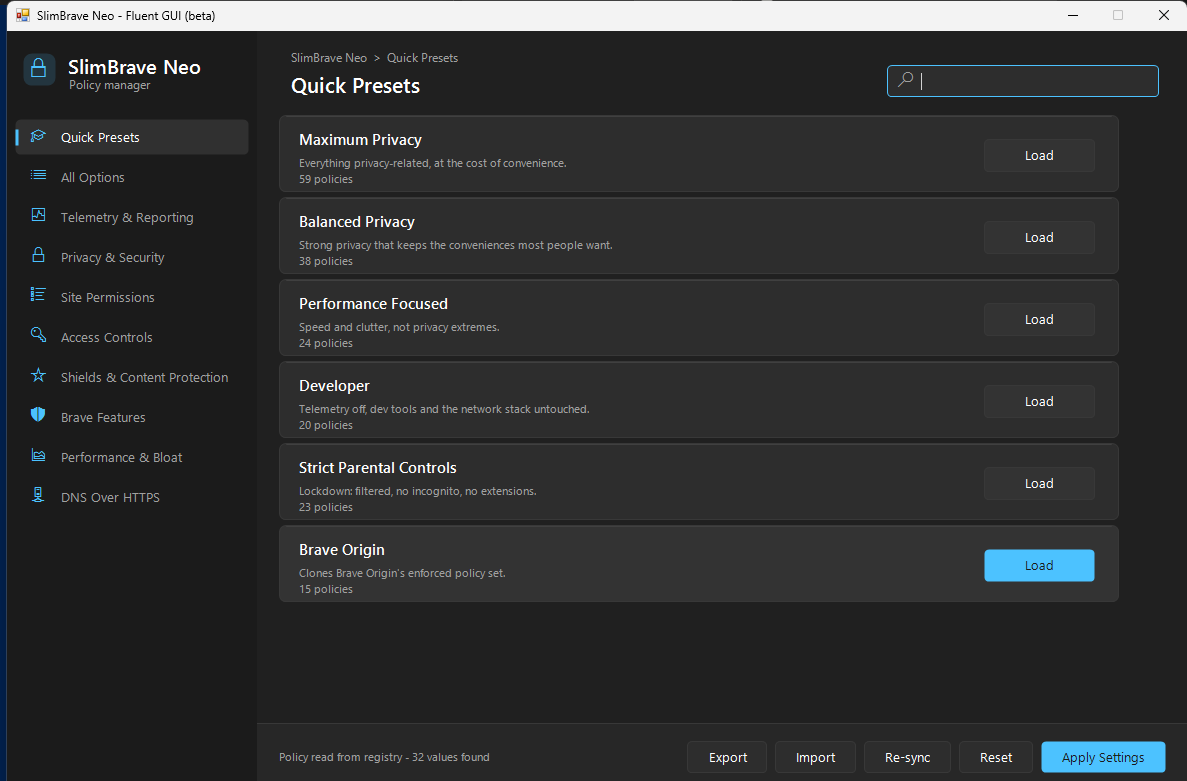
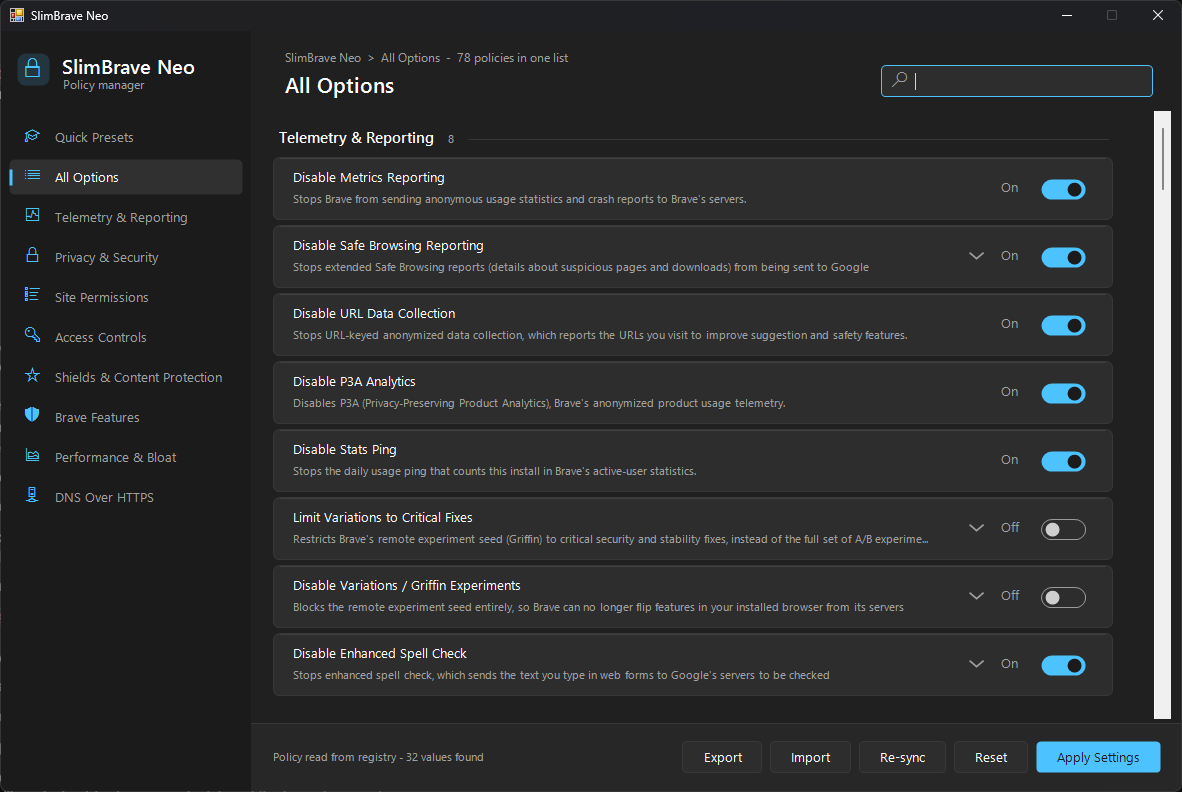
Release candidate: fix the import blocker, collapse groups, true up the docs
A four-lens independent read of the whole main..HEAD diff before marking PR #21
ready. One blocker, two majors and seven minors, each reproduced before it was
fixed. Also the maintainer's own screenshot of the shipping window, replacing
one that still showed the beta title and a light frame.

BLOCKER - the legacy-array import staged both rows of a shared-key pair. Six
policy keys carry two rows with opposite values (Force vs Disable Incognito,
the two Variations rows, the two Referrers rows). The "first row wins" guard
tested the row's own state, which the function had just cleared, so it never
fired: an old export naming those keys staged both rows and Apply wrote the
second - Force Incognito, blocked variation killswitches, permissive referrers.
Now keyed on a handled-keys set, and pinned by a test.

MAJOR - Import and Re-sync never collapsed mutual-exclusion groups. main did it
through CheckedChanged and the Python ports do it in _enforce_groups; the
rewrite left the rule only in the toggle handler, so a config or a registry
state could stage both Shields lists and Apply wrote both. Enforce-ExclusionGroups
now runs at the end of both.

MAJOR - the docs described main's behaviour, not this branch's. SECURITY.md
claimed the Preferences scrub touches only the invoking user (it now walks every
interactive account via ProfileList - new elevated write access that a security
document must not omit), that Reset clears list policies outright (both Reset and
[…]

diff --git a/tests/test_slimbrave.py b/tests/test_slimbrave.py
@@ -2422,7 +2422,12 @@ def test_ps1_row_mousedown_uses_zone_of_for_the_expander():
     start = text.index("function New-FluentRow")
     body = text[start:text.index("\n}\n", start)]
     md = body[body.index("Add_MouseDown"):]
-    assert "$ev.Y -le 50" not in md, "the expander is hit-tested with a bare rectangle again"
+    assert re.search(r"\$zone\s*=\s*Zone-Of \$s \$ev\.X \$ev\.Y", md), (
+        "MouseDown does not resolve the zone through Zone-Of"
+    )
+    assert not re.search(r"\$ev\.Y\s*-le\s*\(?S?\s*50", md), (
+        "the expander is hit-tested with a bare rectangle again"
+    )
     z = md.find("Zone-Of $s $ev.X $ev.Y")
     e = md.find('"exp"')
     assert 0 <= z < e, "MouseDown does not resolve the zone before testing for the expander"
@@ -2448,7 +2453,11 @@ def _gui_text():
 
 def _strip_parens(s):
     """Drop every parenthesised group, innermost first, so `(S 18)` and
-    arithmetic such as `($s.Width-1)` vanish and only bare tokens remain."""
+    arithmetic such as `($s.Width-1)` vanish and only bare tokens remain.
+
+    Known gap: a bare literal inside arithmetic, `($script:COLLAPSED+776)`,
+    vanishes with it. No constructor in the file does that today, and keeping
+    the 1 px hairline insets and the placement math exempt matters more."""
     while True:
         new = re.sub(r"\([^()]*\)", "", s)
         if new == s:
@@ -2498,7 +2507,8 @@ def test_ps1_dark_title_bar_is_actually_requested():
     so the dark UI opened under Windows' light title bar. Same class as the
     ownership guard that was defined and never used: pin the call."""
     text = (ROOT / "SlimBrave.ps1").read_text(encoding="utf-8")
-    calls = re.findall(r"::DwmSetWindowAttribute\(", text)
+    live = re.sub(r"(?m)^\s*#.*$", "", text)   # a commented-out call is not a call
+    calls = re.findall(r"::DwmSetWindowAttribute\(", live)
     assert len(calls) >= 1, "DwmSetWindowAttribute is declared but never called"
     assert "Add_HandleCreated" in text, "the dark-mode attribute must be set once the handle exists"
 
@@ -2509,10 +2519,19 @@ def test_ps1_gui_fonts_follow_the_layout_factor():
     with the grid. A point-unit font in the GUI region would outgrow its row
     on exactly the screens the clamp exists for."""
     text = (ROOT / "SlimBrave.ps1").read_text(encoding="utf-8")
+    body = text[text.index("function New-UiFont"):]
+    body = body[:body.index("\n}\n")]
     gui = text[text.index("$form = New-Object System.Windows.Forms.Form"):]
-    assert 'New-Object System.Drawing.Font "' not in gui, "a GUI font is built in points, bypassing the factor"
-    assert "function New-UiFont" in text
-    assert re.search(r"\$fitDpi\s*=", text), "the width-factor clamp is missing"
+    assert "GraphicsUnit]::Pixel" in body and "$script:DPI" in body, (
+        "New-UiFont no longer builds pixel-unit fonts from the layout factor"
+    )
+    outside = gui.replace(body, "")   # New-UiFont itself is where a Font is built
+    assert not re.search(r"New-Object System\.Drawing\.Font\b", outside), (
+        "a GUI font is built directly, bypassing the factor"
+    )
+    assert re.search(r"if\(\$fitDpi -lt \$script:DPI\)\{\s*\$script:DPI=", text), (
+        "the width-factor clamp is missing or disabled"
+    )
     assert text.index("$fitDpi") < text.index("$clientH=[math]::Max"), (
         "the factor must be clamped before the first S() call"
     )
@@ -2529,7 +2548,8 @@ def test_ps1_status_bar_grows_to_its_message_instead_of_hiding_it():
     start = text.index("function Set-Status(")
     body = text[start:text.index("\n}\n", start)]
     assert "MeasureString" in body and "[ref]$nl" in body, "Set-Status does not measure the message's lines"
-    assert re.search(r"\$bar\.Height\s*=\s*\$need", body), "Set-Status does not resize the bar"
+    live = re.sub(r"(?m)^\s*#.*$", "", body)   # a commented-out assignment is not one
+    assert re.search(r"\$bar\.Height\s*=\s*\$need", live), "Set-Status does not resize the bar"
     assert re.search(r"\$page\.Height\s*=", body), "the page does not yield the bar's extra height"
     assert re.search(r"\$c\.Top\s*=", body), "buttons are not re-centred in a taller bar"
     assert re.search(r"^\$script:BAR_MAX_LINES\s*=\s*[3-6]\s*$", text, re.MULTILINE), "no sane line cap"
@@ -2554,4 +2574,56 @@ def test_ps1_search_word_set_is_not_a_hashtable():
     start = text.index("function Test-SearchHit(")
     hit = text[start:text.index("\n}\n", start)]
     assert ".Keys" not in hit and "ContainsKey" not in hit, "Test-SearchHit still treats the word set as a hashtable"
+
+
+# ---------------------------------------------------------------------------
+# Engine guards the GUI rewrite dropped once already
+# ---------------------------------------------------------------------------
+
+
+def test_ps1_engine_guards_are_wired_not_merely_defined():
+    """94a736a restored four guards main had and the rewrite lost, and its own
+    message says they were lost because no test covered these paths. That is
+    still the risk: each of these is a call site, not a definition."""
+    text = re.sub(r"(?m)^\s*#.*$", "", (ROOT / "SlimBrave.ps1").read_text(encoding="utf-8"))
+
+    apply_body = text[text.index("function Invoke-ApplyPolicy"):text.index("function Invoke-ResetPolicy")]
+    reset_body = text[text.index("function Invoke-ResetPolicy"):]
+    reset_body = reset_body[:reset_body.index("\n}\n")]
+    for name, body in (("Apply", apply_body), ("Reset", reset_body)):
+        assert "Remove-OwnedListPolicy" in body, (
+            f"{name} deletes list policies without the ownership guard"
+        )
+
+    assert re.search(r"^\$script:userReg\s*=\s*\$userRegistryPath", text, re.MULTILINE), (
+        "the user hive is not the SID-aware one"
+    )
+
+    imp = text[text.index("function Import-PresetIntoState"):]
+    imp = imp[:imp.index("\n}\n")]
+    assert "Compare-Object" in imp, "Import stages a list row without comparing its value"
+    assert "Enforce-ExclusionGroups" in imp, "Import can stage two members of one exclusion group"
+
+    sync = text[text.index("function Sync-FromRegistry"):]
+    sync = sync[:sync.index("\n}\n")]
+    assert "Enforce-ExclusionGroups" in sync, "Re-sync can stage two members of one exclusion group"
+
+    relaunch = text[text.index("$relaunchArgs"):]
+    relaunch = relaunch[:relaunch.index("Start-Process")]
+    assert '`"$($script:selfPath)`"' in relaunch, "the relaunch path is unquoted again"
+
+
+def test_ps1_legacy_array_import_takes_the_first_row_per_key():
+    """Several policy keys carry two rows with opposite values (Force vs
+    Disable Incognito, the two Variations rows, the two Referrers rows). The
+    legacy-array branch guarded against staging both by testing the row's own
+    state - which the function had just cleared, so it never fired."""
+    text = (ROOT / "SlimBrave.ps1").read_text(encoding="utf-8")
+    imp = text[text.index("function Import-PresetIntoState"):]
+    imp = imp[:imp.index("\n}\n")]
+    branch = imp[imp.index("$feat -is [array]"):]
+    assert "$handled" in branch, "the legacy-array branch has no handled-keys set"
+    assert re.search(r"\$handled\.ContainsKey\(\$row\.key\)", branch), (
+        "the first-row-per-key guard does not key on $row.key"
+    )
 

diff --git a/README.md b/README.md
@@ -154,7 +154,7 @@ powershell -ExecutionPolicy Bypass -File .\SlimBrave.ps1
 
 <img src="assets/gui-screenshot.png" width="820" alt="SlimBrave Neo Windows GUI">
 
-*The Windows GUI: a sidebar of categories, presets as cards, and a search that reads the descriptions as well as the names.*
+*The Windows GUI, on All Options: every policy in one scroll, each with a plain-English description under its title. A sidebar splits them into categories, and the search reads the descriptions as well as the names.*
 
 </div>
 
@@ -186,17 +186,17 @@ Requires Administrator privileges; the script re-launches itself elevated. It op
 
 **Every policy explains itself.** Each row carries a plain-English description under its title — *"Stops the daily usage ping that counts this install in Brave's active-user statistics"* — rather than hiding it in a tooltip. Where the text is longer than the row, a chevron expands it in place.
 
-**Search reads the descriptions, not just the names.** The box in the header matches titles, policy keys, category names *and* the description text, so typing `passwords` surfaces "Require HTTPS for Basic Auth" even though its title never says the word, and `telemetry` returns the whole reporting section. Several words narrow the results, plurals match singulars, and title matches rank above prose matches.
+**Search reads the descriptions, not just the names.** The box in the header matches titles, policy keys, category names *and* the description text, so typing `passwords` surfaces "Require HTTPS for Basic Auth" even though its title never says the word, and `telemetry` returns the whole reporting section. Several words narrow the results, plurals match singulars, punctuation is ignored on both sides, and title matches rank above prose matches.
 
 **A sidebar splits the policies into seven categories** — or skip it entirely: **All Options** lists all 78 in one scroll with section headers, for anyone who would rather not navigate.
 
-**Presets are cards.** Each shows what it is, who it is for, and how many policies it sets. Loading one only fills in the controls; nothing reaches the registry until you press Apply Settings, so you can change your mind first. The presets are embedded in `SlimBrave.ps1` itself, so they work for the one-liner download above with no `Presets/` directory on disk.
+**Presets are cards.** Each shows what it does and how many policies it sets. Loading one only fills in the controls; nothing reaches the registry until you press Apply Settings, so you can change your mind first. The presets are embedded in `SlimBrave.ps1` itself, so they work for the one-liner download above with no `Presets/` directory on disk.
 
 **Clicking a label does nothing.** Only the toggle and the dropdown respond, each within its own bounds. Opening a menu is reversible; flipping a machine-wide policy is not.
 
 The button row is Export, Import, **Re-sync**, Reset and Apply Settings. Re-sync reads the policy currently in the registry back into the interface, discarding on-screen selections you have not applied. It writes nothing, and goes through the same reader that fills the form at startup, so a re-sync can never disagree with a fresh launch.
 
-Every row of Site Permissions is a dropdown rather than a checkbox: **Not managed / Ask / Block**, plus **Allow** on the keys where Chromium accepts it. Not managed is the default and writes nothing at all. The Permissions & Access section below covers what each state does and which keys offer Allow.
+Every row of Site Permissions is a dropdown rather than a checkbox: **Not managed / Ask / Block**, plus **Allow** on the keys where Chromium accepts it. Not managed is the default and writes nothing at all. The Site Permissions section below covers what each state does and which keys offer Allow.
 
 ---
 
@@ -316,7 +316,7 @@ Pin Brave's own protection defaults as managed policy so they can't be weakened 
 
 ## CLI Reference (Linux and macOS)
 
-The Windows PowerShell script is GUI-only: it declares no parameters and ignores anything on its command line, so flags land silently in `$args` and the window opens anyway. Use its Import and Export buttons instead.
+The Windows PowerShell script is GUI-only: it has no user-facing flags. It declares only the two internal parameters the elevation relaunch passes to itself, so use its Import and Export buttons instead.
 
 | Flag | Description |
 |------|-------------|

diff --git a/AUDIT.md b/AUDIT.md
@@ -166,7 +166,7 @@ case.
 
 - **Windows registry path** — `HKLM:\SOFTWARE\Policies\BraveSoftware\Brave` confirmed correct against Brave's official Group Policy documentation (`BraveSoftware\Brave-Browser` is the *install* dir name, not the policy path).
 - **`ForUrls` wildcard patterns** — Brave's docs say "wildcards are not supported", meaning patterns like `*.example.com`. The scheme-wide patterns SlimBrave uses (`https://*`, `http://*`) are valid ContentSettingsPattern syntax and are applied correctly. They are **not** written to your profile: `PolicyProvider` keeps policy content settings in an in-memory `OriginValueMap` (`content_settings_policy_provider.h`) and never writes them back to `Preferences`. The `profile.content_settings.exceptions.braveShields` entries the repair logic in all three scripts scrubs were written by **pre-1.x SlimBrave**, which set them as ordinary user content settings; the repair undoes that old damage rather than anything current Brave does.
-- **Content-setting enums are not uniform** — re-verified key by key against `chromium/main` on **2026-08-28**, when the eight `Default*Setting` permission rows stopped being block-only checkboxes and started exposing the enum. `DefaultNotificationsSetting`, `DefaultGeolocationSetting` and `DefaultSensorsSetting` take **1 = allow, 2 = block, 3 = ask**. The other five — `DefaultWebUsbGuardSetting`, `DefaultSerialGuardSetting`, `DefaultWebHidGuardSetting`, `DefaultLocalFontsSetting`, `DefaultWindowManagementSetting` — are **ask-or-block only: 1 is not a member of their schema at all** and a policy file naming it is rejected. That asymmetry is the reason the choice lists are per-key rather than shared; do not "tidy" them into one list, and re-check the schema rather than pattern-matching off a neighbouring key. A value outside a key's legal set is left unmanaged on import and named in the import message instead of being written through.
+- **Content-setting enums are not uniform** — re-verified key by key against `chromium/main` on **2026-08-28**, when the eight `Default*Setting` permission rows stopped being block-only checkboxes and started exposing the enum. `DefaultNotificationsSetting`, `DefaultGeolocationSetting` and `DefaultSensorsSetting` take **1 = allow, 2 = block, 3 = ask**. The other five — `DefaultWebUsbGuardSetting`, `DefaultSerialGuardSetting`, `DefaultWebHidGuardSetting`, `DefaultLocalFontsSetting`, `DefaultWindowManagementSetting` — are **ask-or-block only: 1 is not a member of their schema at all** and a policy file naming it is rejected. That asymmetry is the reason the choice lists are per-key rather than shared; do not "tidy" them into one list, and re-check the schema rather than pattern-matching off a neighbouring key. A value outside a key's legal set is left unmanaged on import and named in the import message instead of being written through; the same type-strict test rejects a quoted `"1"` in all three implementations.
 - **Version gating** — a key that predates the running Brave is silently ignored: harmless, but the toggle does nothing until the browser updates. By milestone: cr138 (News, Talk, Speedreader, Wayback, P3A, Stats Ping, Web Discovery) · cr139 (Playlist) · cr140 (De-AMP, Debouncing, Reduce Language) · cr141 (Fingerprinting V2) · cr142 (GPC, Tracking Query Parameter filtering, and the `DefaultBrave*` enforcers — Adblock, HTTPS Upgrade, Referrers, Remember 1P Storage) · cr147 (Email Aliases — **Brave 1.92**, branch-probed) · cr149 (Local AI — **Brave 1.94**, branch-probed). Every other Brave key is cr129 or older, and every Chromium-inherited key is cr111 or older, so both are present in any Brave still receiving updates.
 
 ## Re-audit procedure

diff --git a/SECURITY.md b/SECURITY.md
@@ -133,7 +133,7 @@ It writes to exactly three places:
 |----------|--------------------|
 | `HKLM:\SOFTWARE\Policies\BraveSoftware\Brave` | One value per ticked option (or one numbered subkey for list policies), plus `DnsOverHttpsMode` / `DnsOverHttpsTemplates`. Created only when you press Apply — opening the app writes nothing. |
 | `HKCU:\SOFTWARE\Policies\BraveSoftware\Brave` (or `HKEY_USERS\<your SID>\...` when elevated as another account) | Values are only **removed** here, never written, so a leftover user-scope policy cannot override the machine one. |
-| `%LOCALAPPDATA%\BraveSoftware\<channel>\User Data\<profile>\Preferences` | Only the `profile.content_settings.exceptions.braveShields` entries for `http://*,*` and `https://*,*` are deleted. Nothing else in the file is read back out or changed. Covers Stable/Beta/Nightly/Dev and every profile (`Default`, `Profile 1`, ...). Skipped entirely while Brave is running, because Brave would overwrite the file on its next save. |
+| `%LOCALAPPDATA%\BraveSoftware\<channel>\User Data\<profile>\Preferences`, for **every interactive account on the machine** | Only the `profile.content_settings.exceptions.braveShields` entries for `http://*,*` and `https://*,*` are deleted. Nothing else in the file is read back out or changed. Covers Stable/Beta/Nightly/Dev and every profile (`Default`, `Profile 1`, ...). The policy this tool writes is machine-wide, so the scrub follows it: your own profile root plus every other interactive account (`S-1-5-21-*` in the ProfileList registry key) whose Brave data is readable; the status line says when other users' profiles were cleaned. Skipped entirely while Brave is running, because Brave would overwrite the file on its next save. |
 
 Those Shields entries are a leak from **pre-1.x SlimBrave**, which wrote
 content-setting exceptions straight into the profile. Removing the registry
@@ -146,11 +146,11 @@ delete the `...\Policies\BraveSoftware\Brave` key itself and does not touch
 other values inside it — a group-policy `ExtensionInstallForcelist`,
 `URLBlocklist`, `ProxySettings` or anything another tool set survives.
 
-Reset clears those managed names outright; that is what a reset is for. Apply
-is stricter: a **list** policy you left unticked is removed only when the list
-on disk is byte-for-byte the one SlimBrave writes, so an
-`ExtensionInstallBlocklist` an admin owns is reported as skipped and left
-in place.
+Reset clears the managed **values** outright; that is what a reset is for. Both
+Reset and Apply are stricter about **list** policies: one is removed only when
+the list on disk is byte-for-byte the one SlimBrave writes, so an
+`ExtensionInstallBlocklist` an admin or a GPO owns is left in place and both
+actions report how many they skipped.
 
 ### Linux — `slimbrave-linux.py`
 
@@ -205,7 +205,8 @@ identifier. No other managed preference is touched.
 Then restart Brave and check `brave://policy` — none of the keys the tool
 manages should still be listed. On Linux and macOS the Shields-exception scrub
 happens on reset too; on Windows it happens unless Brave is running, in which
-case the dialog tells you to close Brave and reset again.
+case the status bar at the bottom of the window tells you to close Brave and
+reset again.
 
 ---
 
